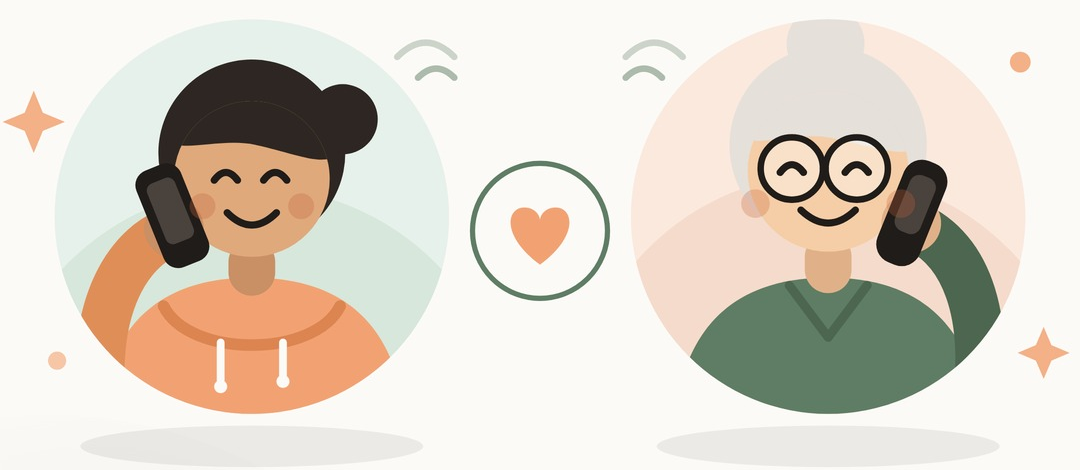
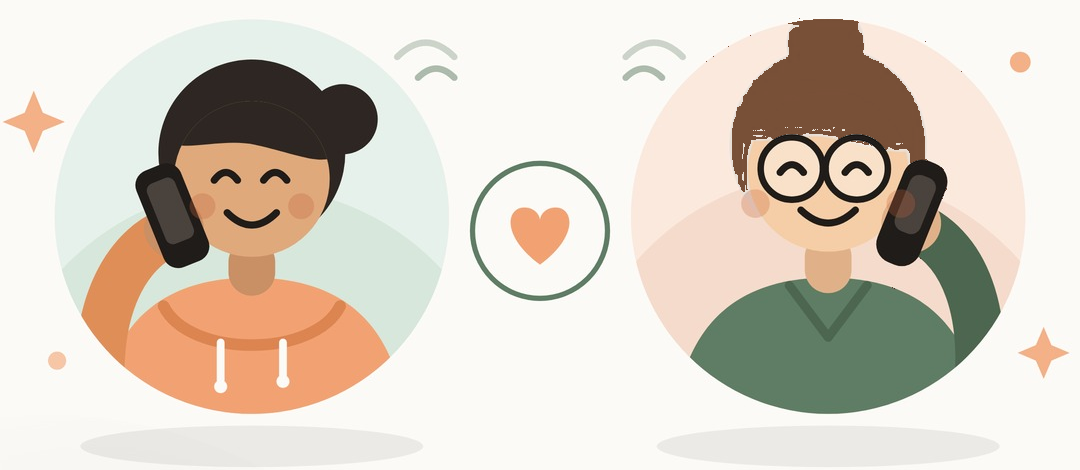
Landing hero: make right person younger (brown hair)

Changed region(s): [[0.6722, 0.0298, 0.8556, 0.417]]

diff --git a/src/pages/LandingPage.tsx b/src/pages/LandingPage.tsx
@@ -71,7 +71,7 @@ export default function LandingPage() {
             </div>
             <p className="landing-fineprint">{c.hero.fineprint}</p>
           </div>
-          <img src="/landing-hero.svg" alt="Two friends having a friendly video conversation" loading="eager" className="landing-hero-photo landing-illus" />
+          <img src="/landing-hero.png" alt="Two friends having a friendly video conversation" loading="eager" className="landing-hero-photo landing-illus" />
         </div>
       </section>
 
